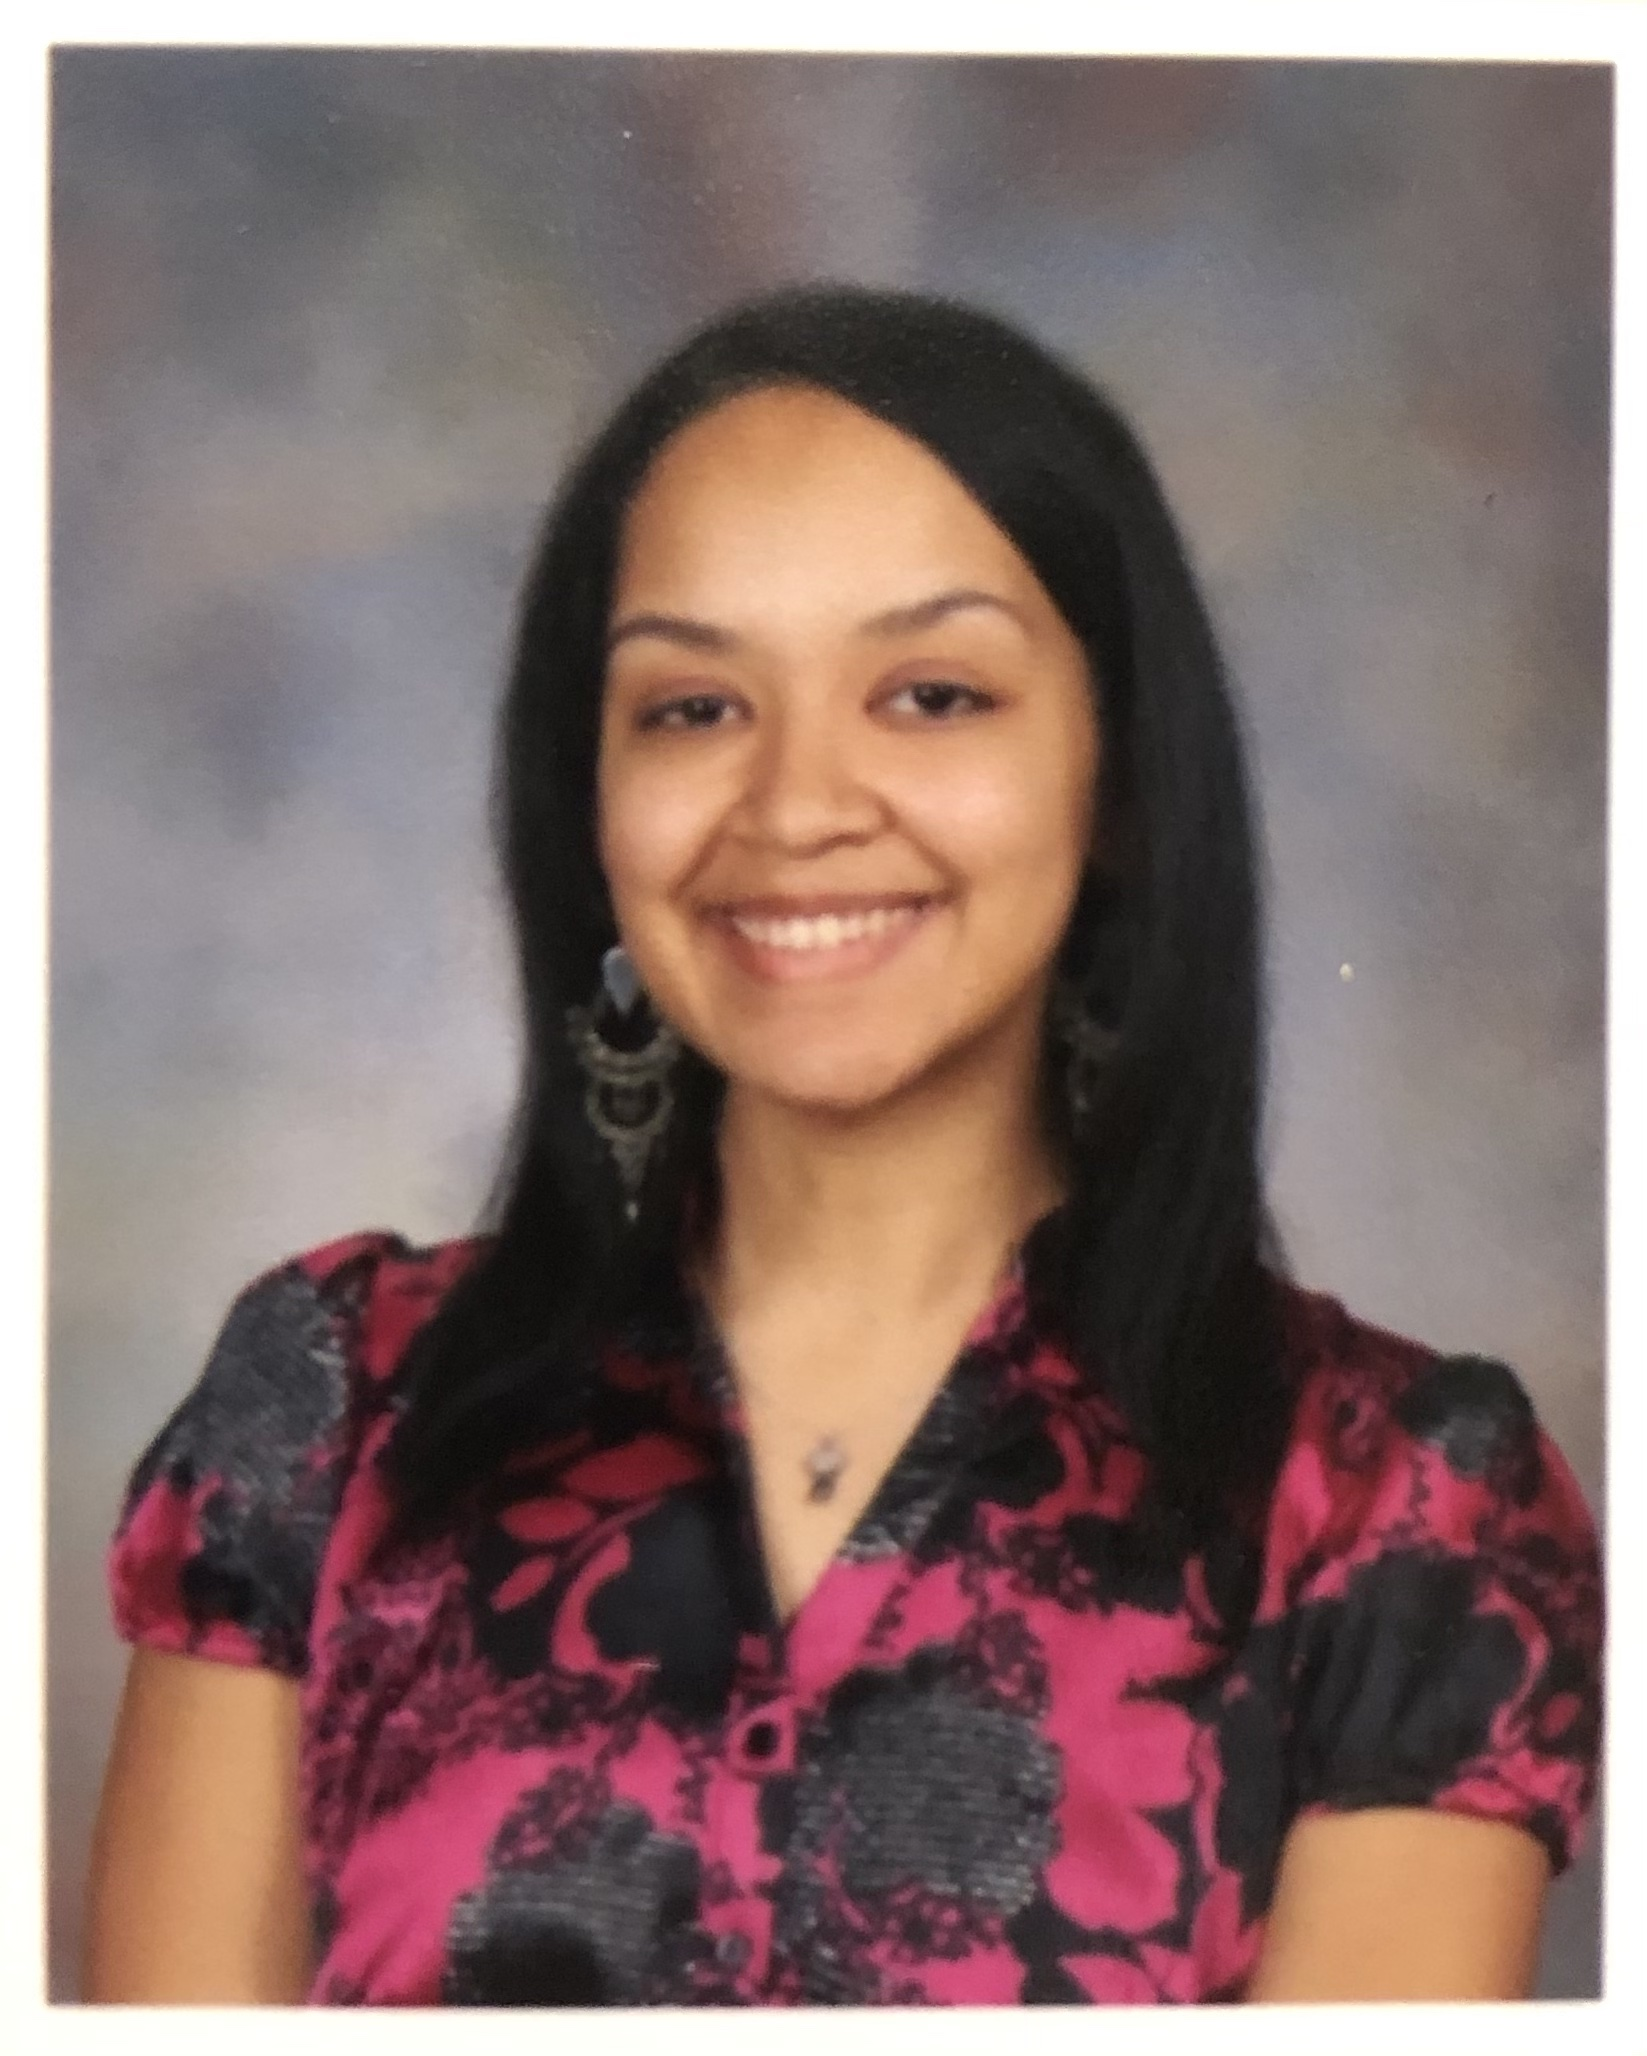
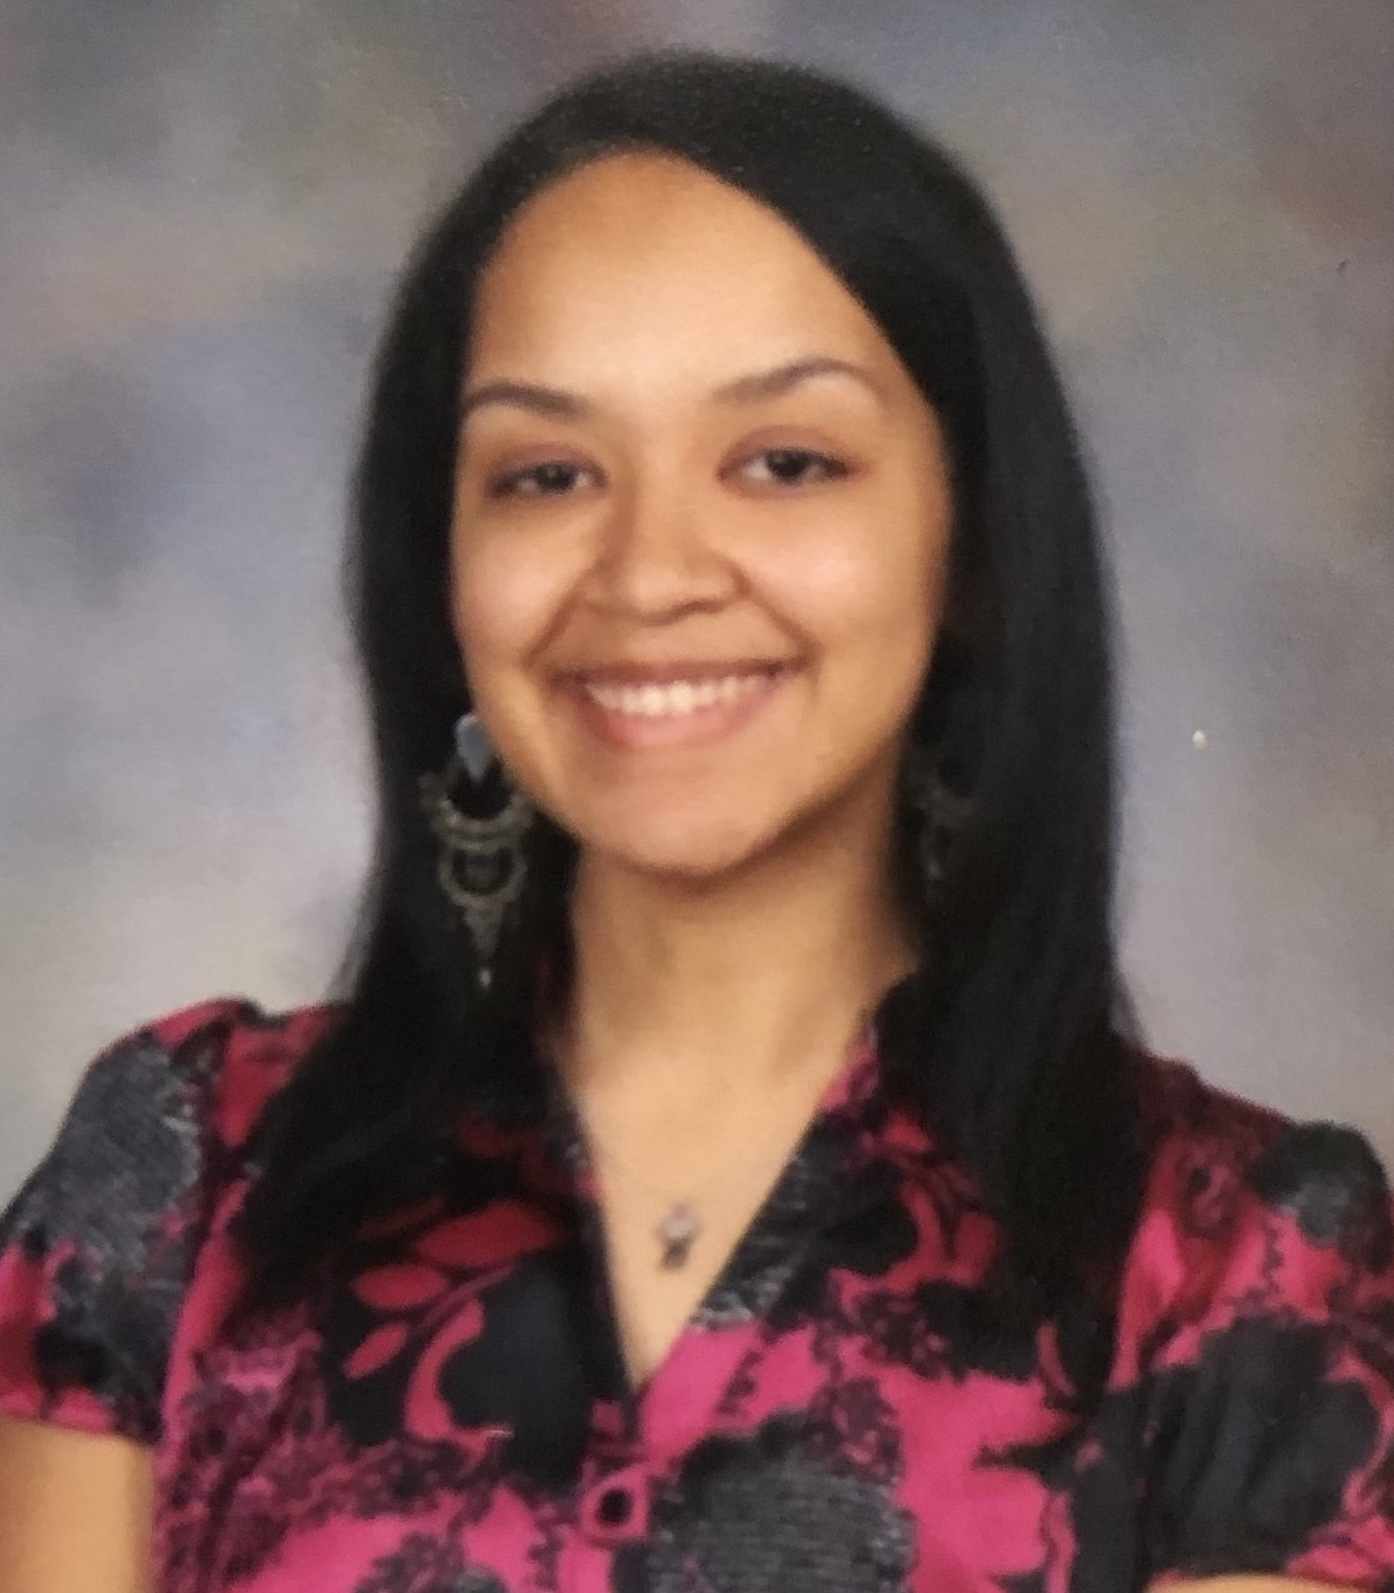
updates avi and adds skills section

diff --git a/index.html b/index.html
@@ -49,6 +49,11 @@
           <li>
             <a href="https://github.com/mabelysa" class="icon brands fa-github"><span class="label">Github</span></a>
           </li>
+          <li>
+            <a href="https://youtu.be/YHZdMOTbW7I?t=1949 " class="icon brands fa-youtube">
+              <span class="label">YouTube</span>
+            </a>
+          </li>
           <!-- <li><a href="#" class="icon brands fa-dribbble"><span class="label">Dribbble</span></a></li> -->
           <!-- <li><a href="mabelysa@gmail.com" class="icon solid fa-envelope"><span class="label">Email</span></a></li> -->
           <li>
@@ -66,25 +71,8 @@
       <section id="top" class="one dark cover">
         <div class="container">
           <header>
-            <h2 class="alt">
-              Hi! I'm
-              <strong>Mabelys!</strong>
-              an
-              <a href="http://anyonecanlearntocode.com/">Actualizing</a>
-              software
-              <br />
-              engineer
-              <!-- <a href="http://html5up.net">!</a> -->
-              !
-            </h2>
-            <p>
-              I am a NYC based software engineer
-              <br />
-              who loves to write some super cool code! I have a passion for the environment and I am working toward
-              becoming zero waste! I am a dog lover, lover of Christmas, and I come from a big family with a big heart.
-              With a background in various helping roles; service, education, and teamwork all drive what I do and I am
-              excited to use my technical skills to make a difference in my community.
-            </p>
+            <h2 class="alt">Skills</h2>
+            <p>Ruby|Rails|JavaScript|Vue|HTML|CSS|Git|GitHub|APIs|Bootstrap</p>
           </header>
 
           <footer>
